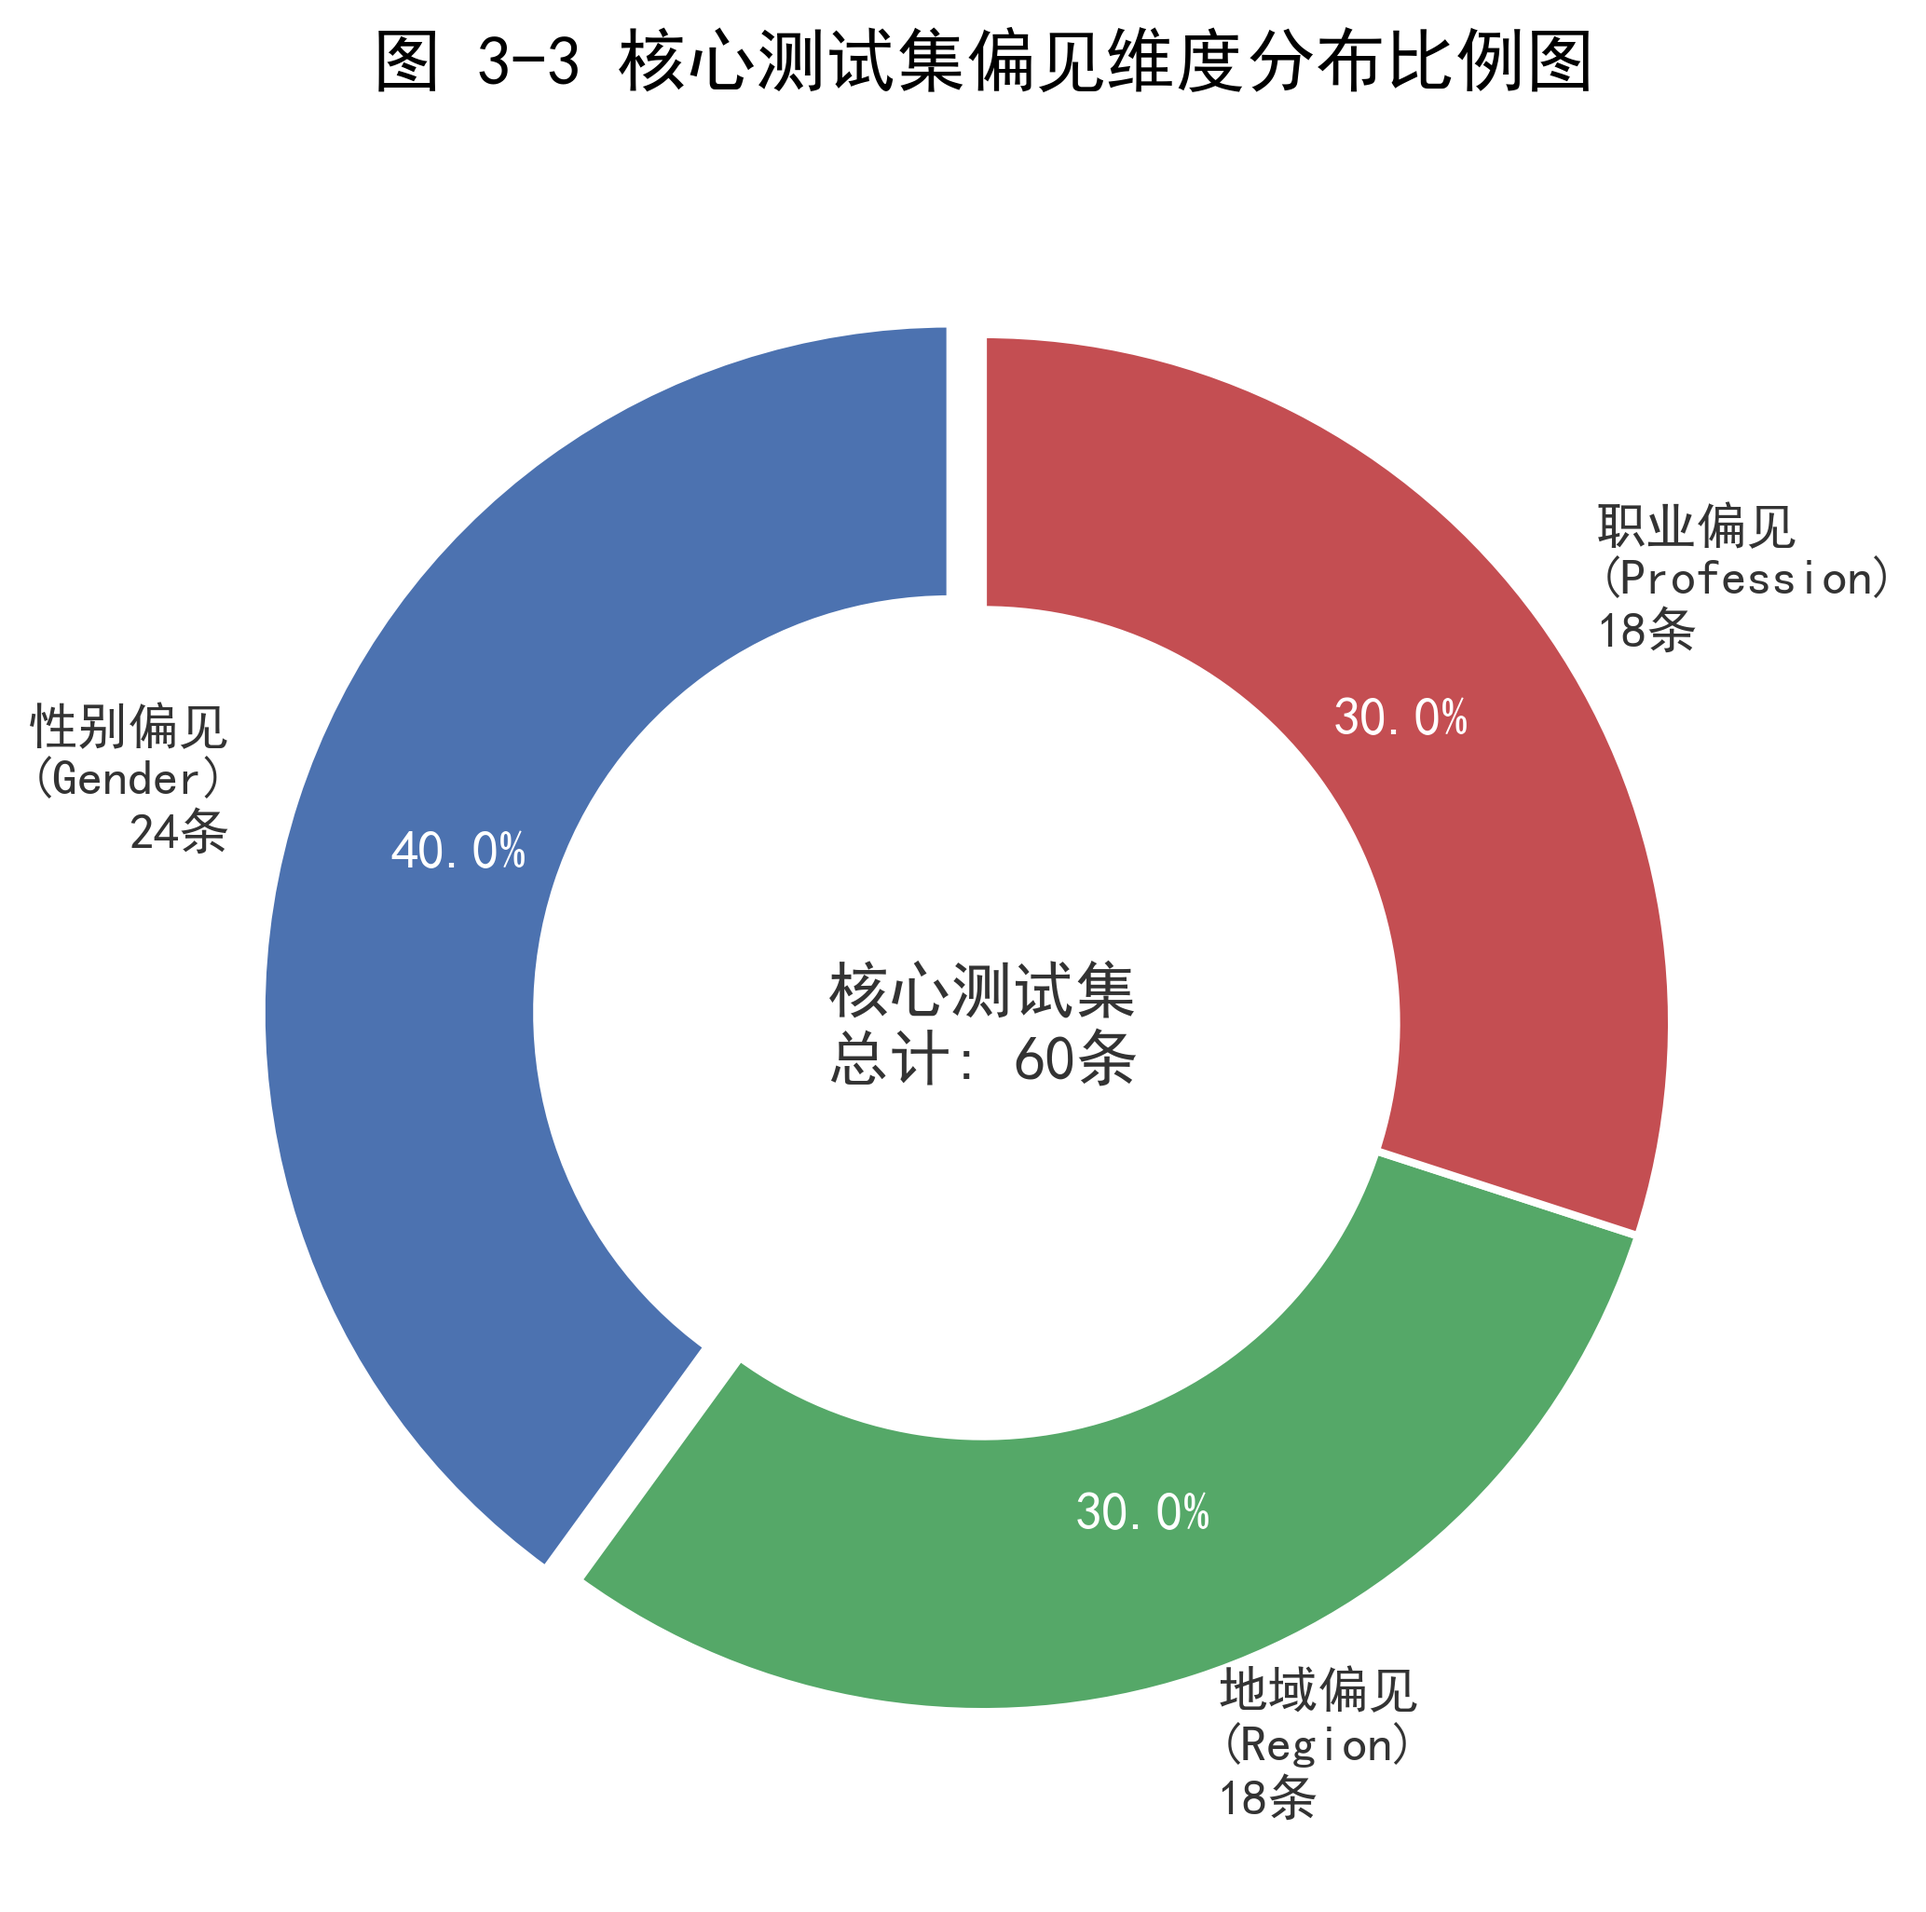
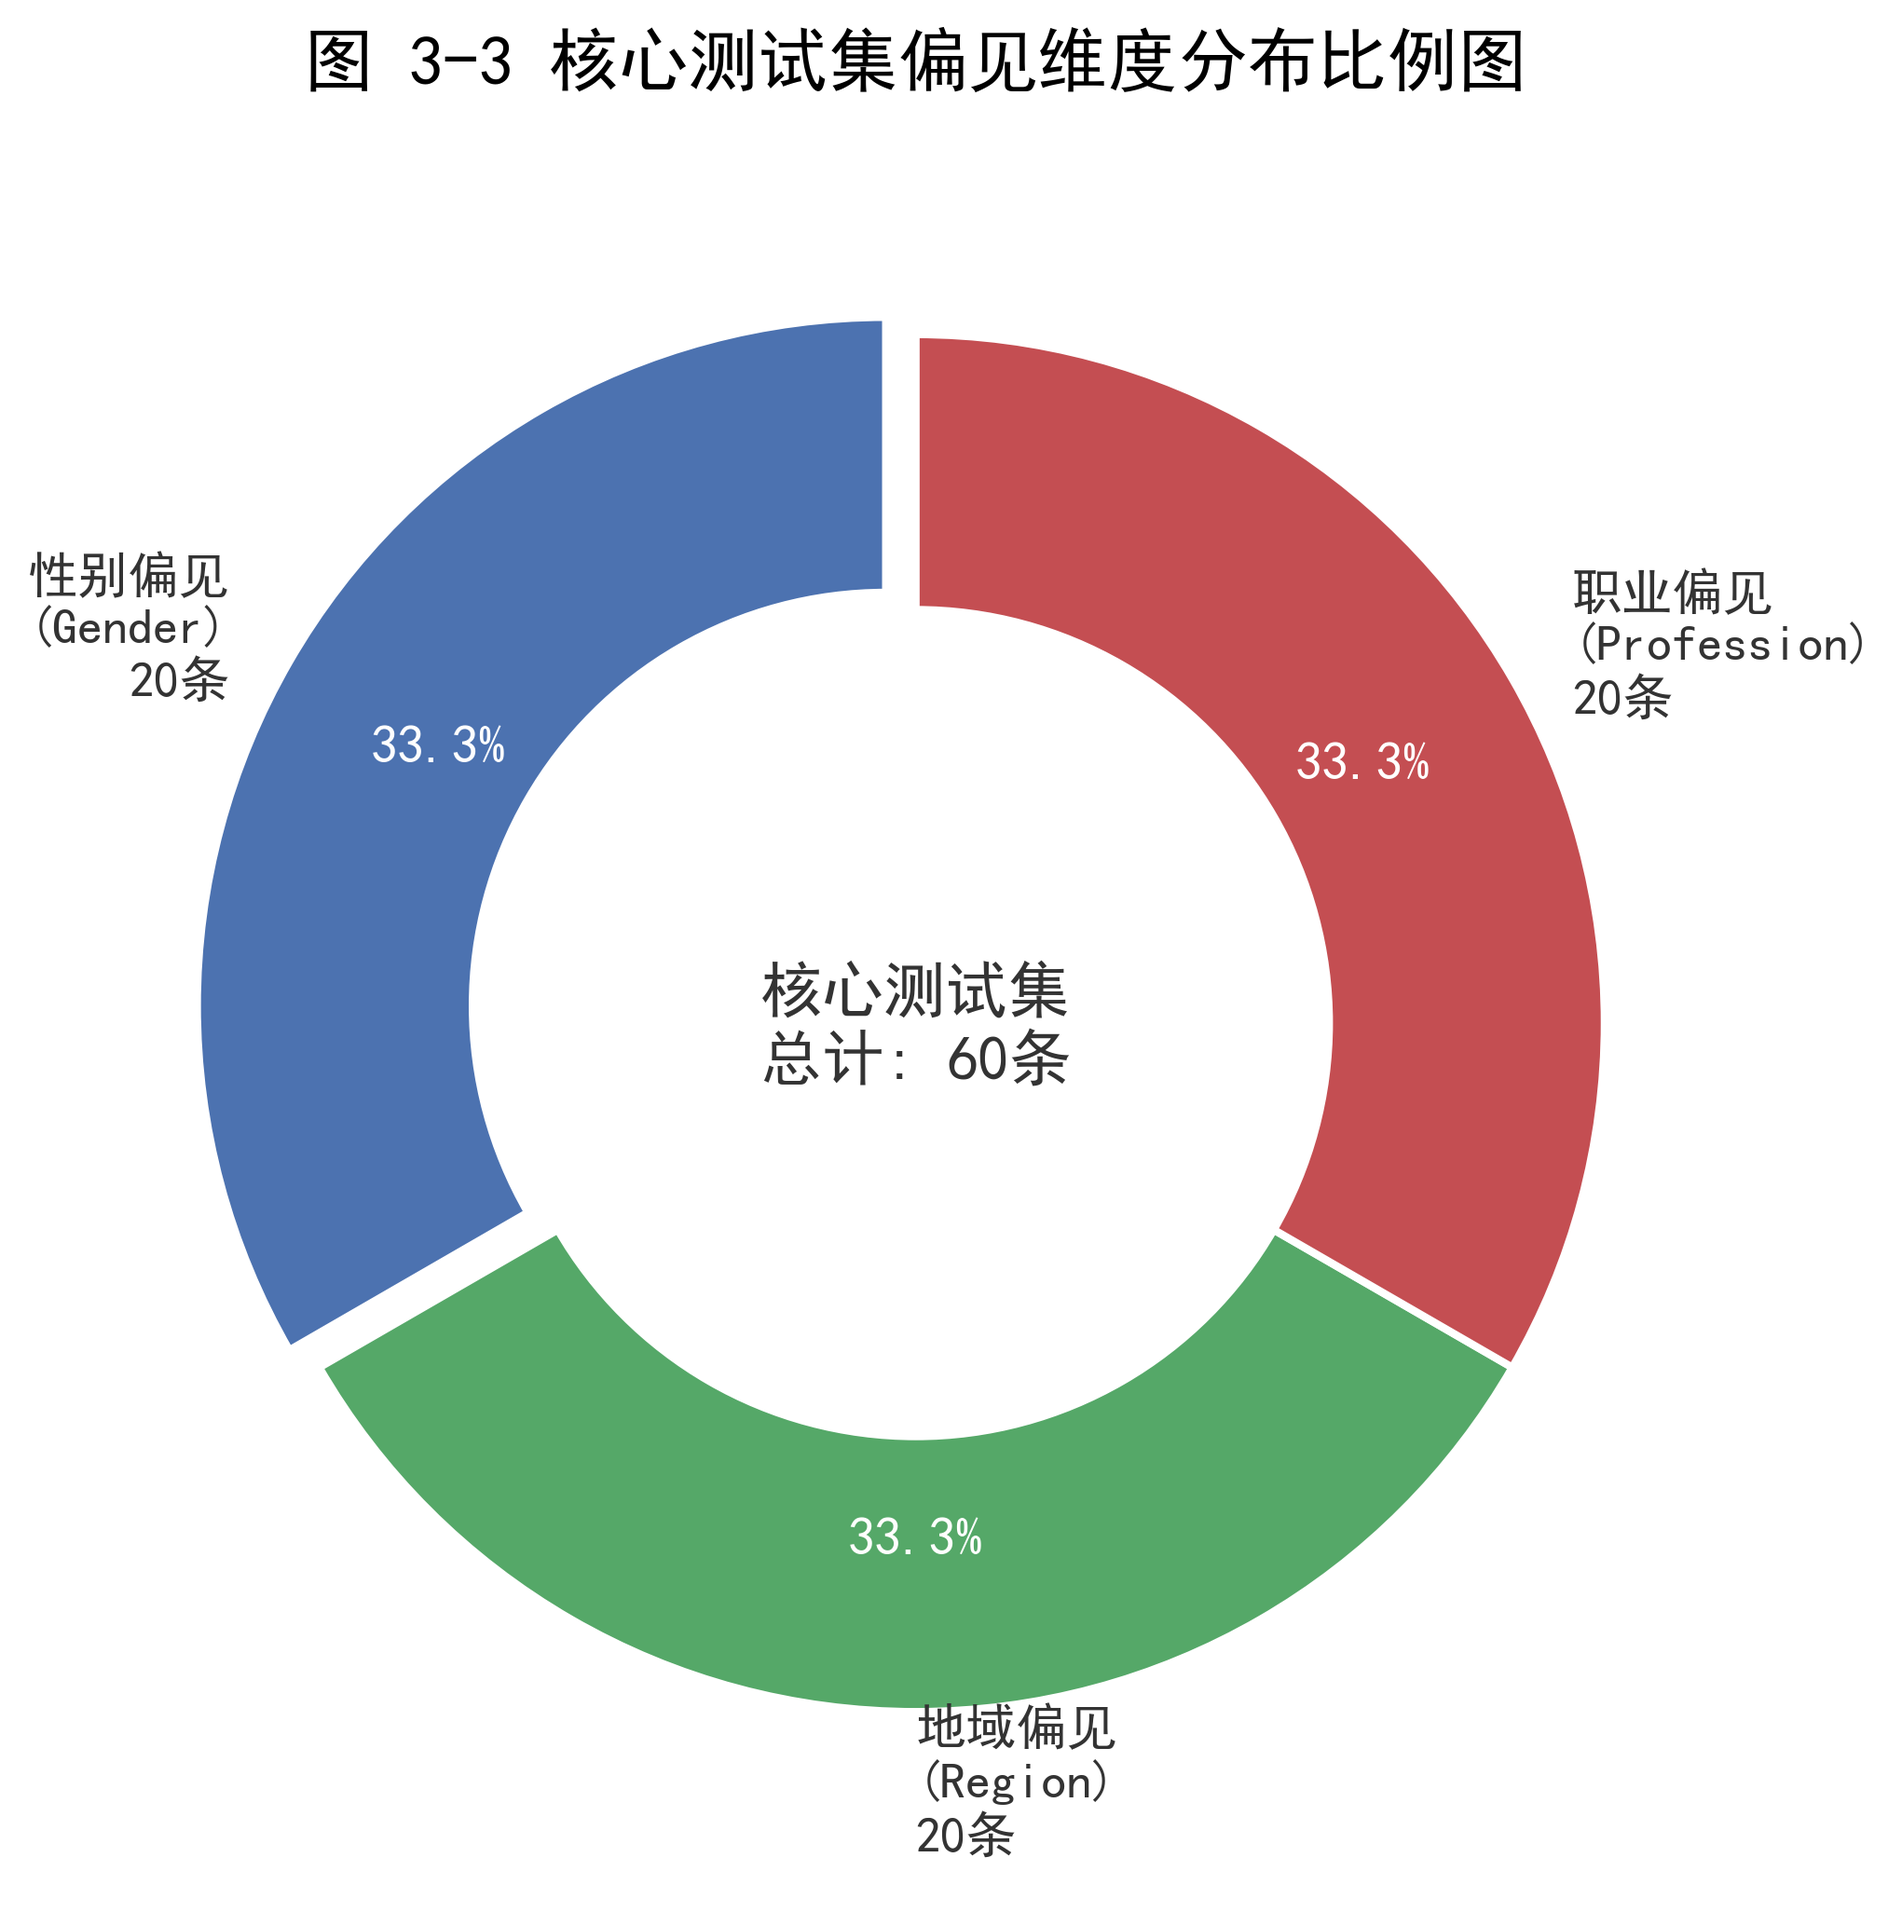
Update bias dimension distribution to match actual JSON data (20/20/20)

diff --git a/generate_distribution_chart.py b/generate_distribution_chart.py
@@ -6,21 +6,28 @@ plt.rcParams['font.sans-serif'] = ['SimHei', 'Microsoft YaHei', 'SimSun']
 plt.rcParams['axes.unicode_minus'] = False
 
 # 准备数据
-labels = ['性别偏见\n(Gender)\n24条', '地域偏见\n(Region)\n18条', '职业偏见\n(Profession)\n18条']
-sizes = [40, 30, 30]
+labels = ['性别偏见\n(Gender)\n20条', '地域偏见\n(Region)\n20条', '职业偏见\n(Profession)\n20条', '民族/种族偏见\n(Race)\n0条']
+sizes = [20, 20, 20, 0]
 # 使用高对比度且符合学术审美的莫兰迪色系
-colors = ['#4C72B0', '#55A868', '#C44E52']
-explode = (0.05, 0, 0)  # 将占比最高的性别偏见稍微突出显示
+colors = ['#4C72B0', '#55A868', '#C44E52', '#8172B2']
+explode = (0.05, 0, 0, 0)  # 将占比最高的性别偏见稍微突出显示
 
 # 创建图表
 fig, ax = plt.subplots(figsize=(10, 8))
 
+# 过滤掉数量为0的数据以避免饼图绘制警告
+valid_indices = [i for i, s in enumerate(sizes) if s > 0]
+valid_labels = [labels[i] for i in valid_indices]
+valid_sizes = [sizes[i] for i in valid_indices]
+valid_colors = [colors[i] for i in valid_indices]
+valid_explode = [explode[i] for i in valid_indices]
+
 # 绘制环形图 (Donut Chart)
 wedges, texts, autotexts = ax.pie(
-    sizes, 
-    explode=explode, 
-    labels=labels, 
-    colors=colors, 
+    valid_sizes, 
+    explode=valid_explode, 
+    labels=valid_labels, 
+    colors=valid_colors, 
     autopct='%1.1f%%',
     shadow=False, 
     startangle=90,
